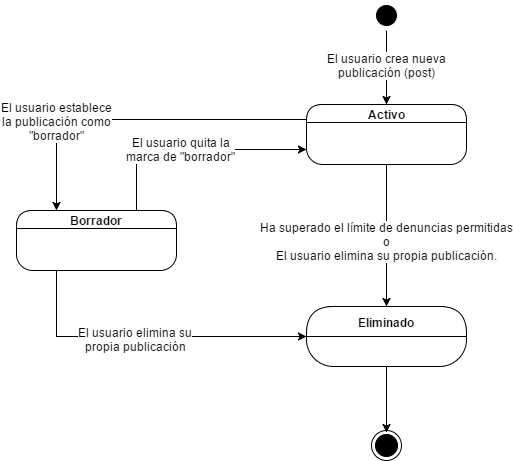
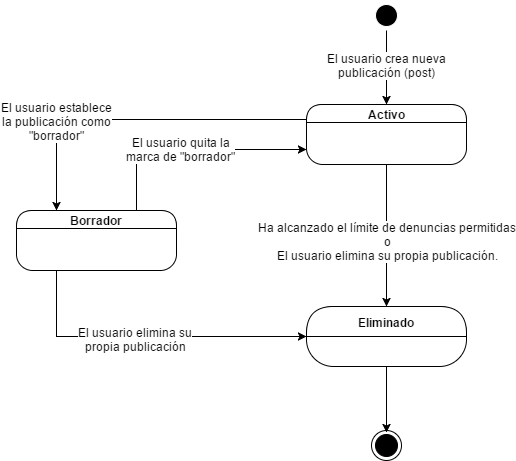
Minor fixes in complaints logic.

diff --git a/DotW/DotW/Views/EmailTemplate/PostDeletedByComplaints.html b/DotW/DotW/Views/EmailTemplate/PostDeletedByComplaints.html
@@ -11,7 +11,7 @@
             <br /><br />
         </p>
         <p>
-            A continuación te presentamos las descripciones correspondientes a las denuncias recibidas por tu publicación:
+            A continuación te presentamos algunas de denuncias recibidas por tu publicación:
         </p>
         <ul>
             <li><i>{FirstComplaint}</i></li>

diff --git a/DotW/DotW/Views/EmailTemplate/CommentaryDeleted.html b/DotW/DotW/Views/EmailTemplate/CommentaryDeleted.html
@@ -13,7 +13,7 @@
             <br /><br />
         </p>
         <p>
-            A continuación te presentamos las descripciones correspondientes a las denuncias recibidas por tu comentario:
+            A continuación te presentamos algunas de denuncias recibidas por tu comentario:
         </p>
         <ul>
             <li><i>{FirstComplaint}</i></li>

diff --git a/DotW/DotW/Controllers/ComplaintController.cs b/DotW/DotW/Controllers/ComplaintController.cs
@@ -58,7 +58,7 @@
                         // Se da de baja la publicación.
                         var deletePostResult = postService.DeletePost(new DeletePostRequest { Id = complaintResult.PostId, IsComplaintOrVoteDifference = true });
 
-                        var complaints = complaintService.SearchComplaintsByPostId(new SearchComplaintsByPostIdRequest { PostId = post.Id }).Complaints;
+                        var complaints = complaintService.SearchComplaintsByPostId(new SearchComplaintsByPostIdRequest { PostId = post.Id }).Complaints.OrderByDescending(x => x.Id).Take(3).ToList();
 
                         // Se notifica la baja del post via correo electrónico al escritor.
                         SendPostDeletedEmailToWriter(post, complaints);
@@ -121,7 +121,7 @@
                         // Se da de baja el comentario.
                         var deletePostResult = commentaryService.DeleteCommentary(new DeleteCommentaryRequest { Id = complaintResult.CommentaryId, IsComplaintOrVoteDifference = true });
 
-                        var complaints = complaintService.SearchComplaintsByCommentaryId(new SearchComplaintsByCommentaryIdRequest { CommentaryId = commentary.Id }).Complaints;
+                        var complaints = complaintService.SearchComplaintsByCommentaryId(new SearchComplaintsByCommentaryIdRequest { CommentaryId = commentary.Id }).Complaints.OrderByDescending(x => x.Id).Take(3).ToList();
 
                         // Se notifica la baja del comentario via correo electrónico al escritor.
                         SendCommentaryDeletedEmailToWriter(commentary, complaints);
@@ -173,9 +173,9 @@
 
                 body = body.Replace("{UserName}", writerUser.Name);
                 body = body.Replace("{PostTitle}", post.Title);
-                body = body.Replace("{FirstComplaint}", complaints[0].Description);
-                body = body.Replace("{SecondComplaint}", complaints[1].Description);
-                body = body.Replace("{ThirdComplaint}", complaints[2].Description);
+                body = body.Replace("{FirstComplaint}", string.IsNullOrEmpty(complaints[0].Description) ? "Denuncia sin comentario." : complaints[0].Description);
+                body = body.Replace("{SecondComplaint}", string.IsNullOrEmpty(complaints[1].Description) ? "Denuncia sin comentario." : complaints[1].Description);
+                body = body.Replace("{ThirdComplaint}", string.IsNullOrEmpty(complaints[2].Description) ? "Denuncia sin comentario." : complaints[2].Description);
 
                 m.Body = body;
 
@@ -214,9 +214,9 @@
                 body = body.Replace("{UserName}", writerUser.Name);
                 body = body.Replace("{Commentary}", commentary.CommentaryText);
                 body = body.Replace("{PostTitle}", post.Title);
-                body = body.Replace("{FirstComplaint}", complaints[0].Description);
-                body = body.Replace("{SecondComplaint}", complaints[1].Description);
-                body = body.Replace("{ThirdComplaint}", complaints[2].Description);
+                body = body.Replace("{FirstComplaint}", string.IsNullOrEmpty(complaints[0].Description) ? "Denuncia sin comentario." : complaints[0].Description);
+                body = body.Replace("{SecondComplaint}", string.IsNullOrEmpty(complaints[1].Description) ? "Denuncia sin comentario." : complaints[1].Description);
+                body = body.Replace("{ThirdComplaint}", string.IsNullOrEmpty(complaints[2].Description) ? "Denuncia sin comentario." : complaints[2].Description);
 
                 m.Body = body;
 
